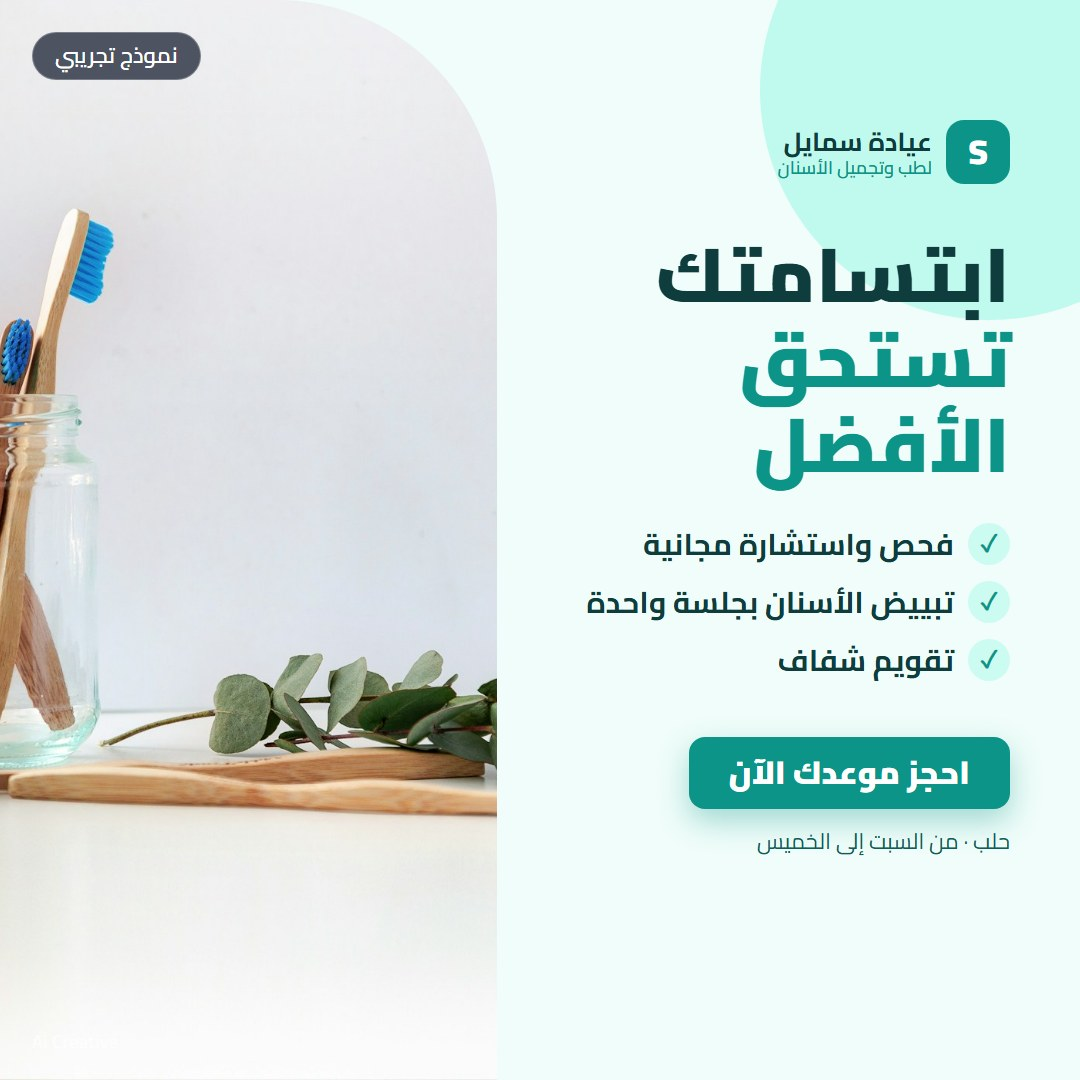
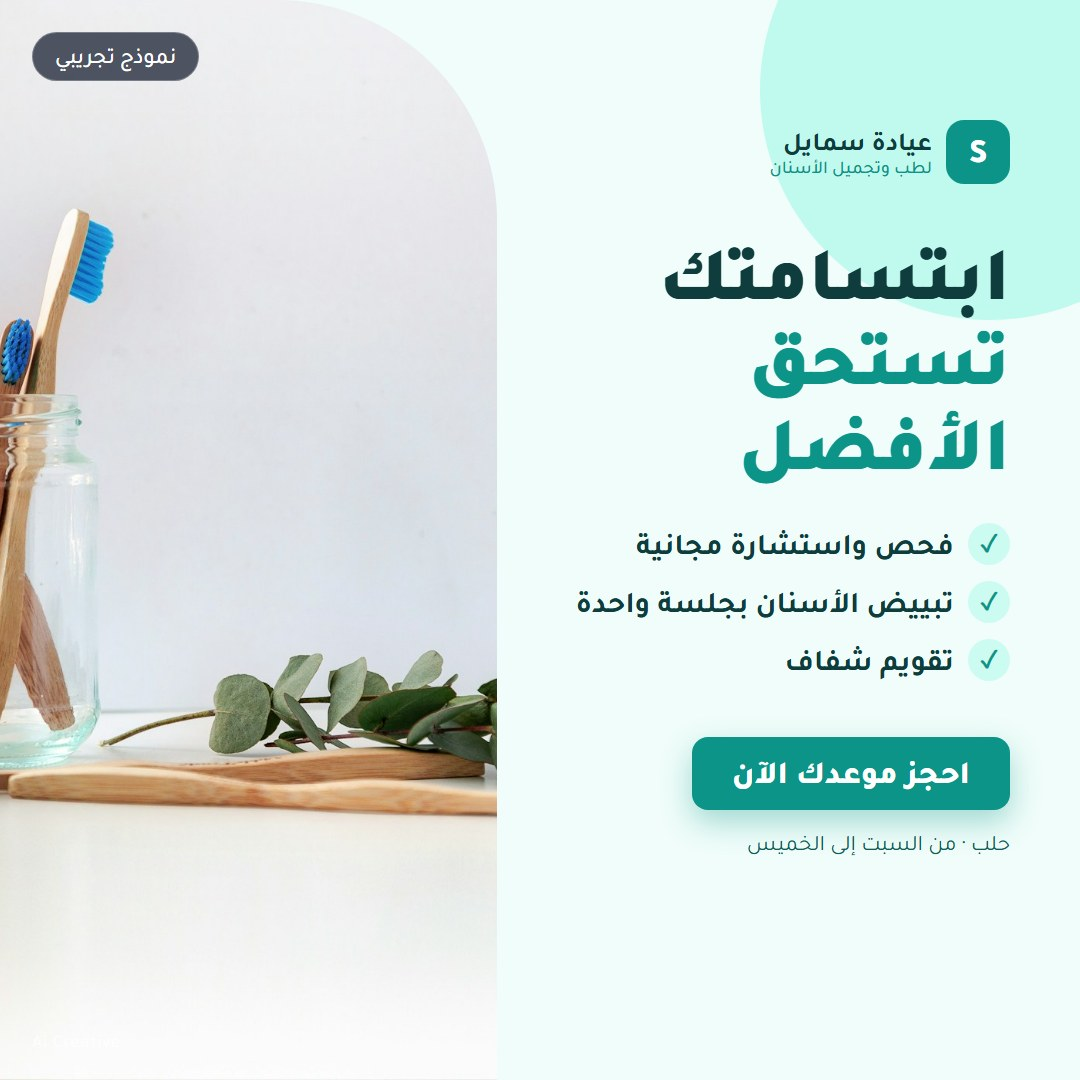
copy(portfolio): free page review CTA; samples re-rendered in Tajawal (approved)

diff --git a/design/portfolio-samples/common.css b/design/portfolio-samples/common.css
@@ -1,11 +1,13 @@
-@font-face { font-family: 'Cairo'; font-weight: 400; src: url('../../public/Cairo/static/Cairo-Regular.ttf'); }
-@font-face { font-family: 'Cairo'; font-weight: 600; src: url('../../public/Cairo/static/Cairo-SemiBold.ttf'); }
-@font-face { font-family: 'Cairo'; font-weight: 700; src: url('../../public/Cairo/static/Cairo-Bold.ttf'); }
-@font-face { font-family: 'Cairo'; font-weight: 900; src: url('../../public/Cairo/static/Cairo-Black.ttf'); }
+/* خط الهوية Tajawal (نفس ملفات حقيبة الإطلاق) */
+@font-face { font-family: 'Tajawal'; font-weight: 400; src: url('../../marketing/launch-kit/fonts/Tajawal-Regular.ttf'); }
+@font-face { font-family: 'Tajawal'; font-weight: 500 600; src: url('../../marketing/launch-kit/fonts/Tajawal-Medium.ttf'); }
+@font-face { font-family: 'Tajawal'; font-weight: 700; src: url('../../marketing/launch-kit/fonts/Tajawal-Bold.ttf'); }
+@font-face { font-family: 'Tajawal'; font-weight: 800; src: url('../../marketing/launch-kit/fonts/Tajawal-ExtraBold.ttf'); }
+@font-face { font-family: 'Tajawal'; font-weight: 900; src: url('../../marketing/launch-kit/fonts/Tajawal-Black.ttf'); }
 
 * { box-sizing: border-box; margin: 0; padding: 0; }
 html, body { width: 1080px; height: 1080px; overflow: hidden; }
-body { font-family: 'Cairo', sans-serif; direction: rtl; position: relative; line-height: 1.35; }
+body { font-family: 'Tajawal', sans-serif; direction: rtl; position: relative; line-height: 1.4; }
 
 /* شارة الصدق: كل عمل في المعرض مكتوب عليه أنه نموذج تجريبي */
 .sample-badge {

diff --git a/components/Portfolio.tsx b/components/Portfolio.tsx
@@ -279,8 +279,13 @@ const PortfolioContent = () => {
               <p className="text-lg text-gray-600 mb-6">
                 هل تريد أن يكون مشروعك التالي في معرض أعمالنا؟
               </p>
-              <a href="#contact" className="btn-primary text-lg px-8 py-4">
-                اطلب تصميماً لمشروعك
+              <a
+                href={whatsappLink('السلام عليكم، أريد تحليلاً مجانياً لصفحتي.\nنوع مشروعي: ')}
+                target="_blank"
+                rel="noopener noreferrer"
+                className="btn-primary text-lg px-8 py-4"
+              >
+                اطلب تحليلاً مجانياً لصفحتك
               </a>
             </motion.div>
           </>

diff --git a/design/portfolio-samples/06-cafe-identity.html b/design/portfolio-samples/06-cafe-identity.html
@@ -46,7 +46,7 @@
   <div class="cell type">
     <h3>الخط</h3>
     <div class="aa">أ ب ج</div>
-    <p>Cairo Black للعناوين<br>Cairo SemiBold للنصوص</p>
+    <p>Tajawal Black للعناوين<br>Tajawal Medium للنصوص</p>
   </div>
   <div class="cell post"><div class="over"></div><div class="txt"><b>صباحك من القلعة</b><span>قهوة مختصة · حلب القديمة</span></div></div>
   <div class="sample-badge">نموذج تجريبي · هوية بصرية</div>
